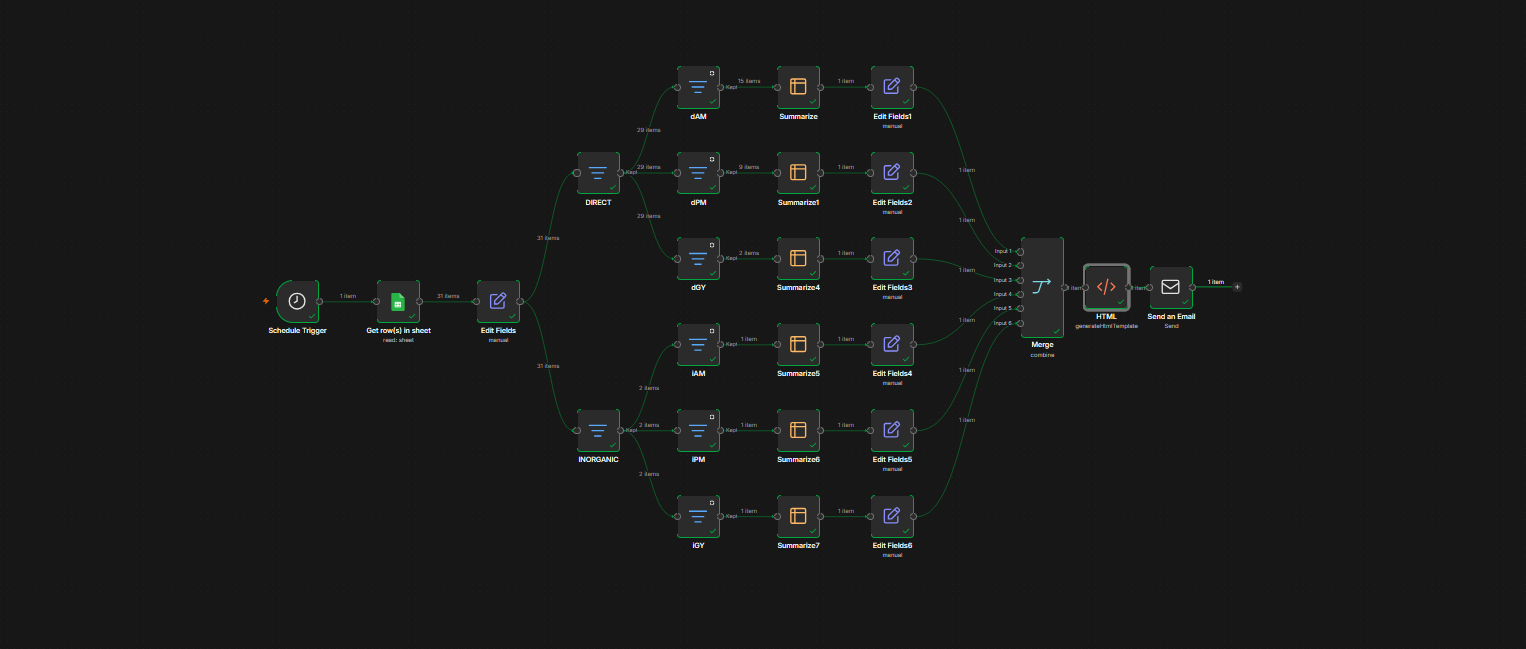
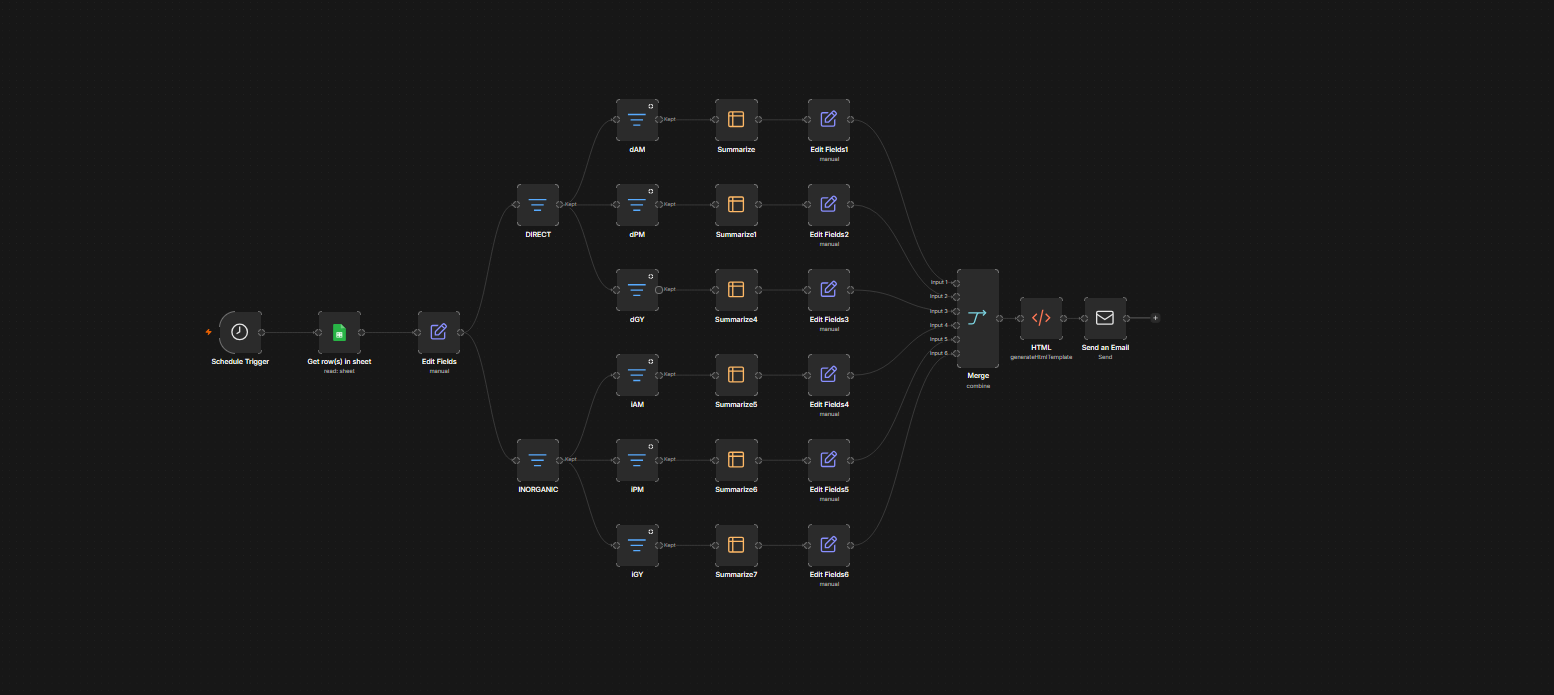
Add files via upload

diff --git a/index.html b/index.html
@@ -15,7 +15,6 @@
   <div class="logo">EB</div>
 
 <div class="nav-links">
-  <a href="#home">Home</a>
   <a href="#about">About</a>
   <a href="#services">Services</a>
   <a href="#projects">Projects</a>
@@ -23,7 +22,7 @@
 </div>
 </nav>
 
-<section class="hero" id="home">
+<section class="hero" id="about">
 
   <div class="hero-text">
 
@@ -177,12 +176,18 @@
     </div>
 
     <div class="project-card">
-      <div class="project-image">Resume Generator</div>
-      <h3>Resume Generator</h3>
-      <p>AI workflow that creates resumes, converts them to PDF, and sends them by email.</p>
+      <div class="project-image" onclick="openLightbox('images/salesagent.png')">
+  <img src="images/salesagent.png">
+</div>
+      <h3>AI-Powered ISP Sales Assistant</h3>
+      <p>AI-powered Facebook Messenger sales assistant that uses Ollama to detect customer sales intent, engage qualified leads, 
+        automate customer information collection, verify service coverage, and synchronize CRM records through OpenAI, n8n, FastAPI, HubSpot, and Qdrant.</p>
       <span>n8n</span>
+      <span>Ollama</span>
       <span>OpenAI</span>
-      <span>PDF</span>
+      <span>FastAPI</span> 
+      <span>HubSpot</span>
+      <span>Qdrant</span>
     </div>
 
     <div class="project-card">
